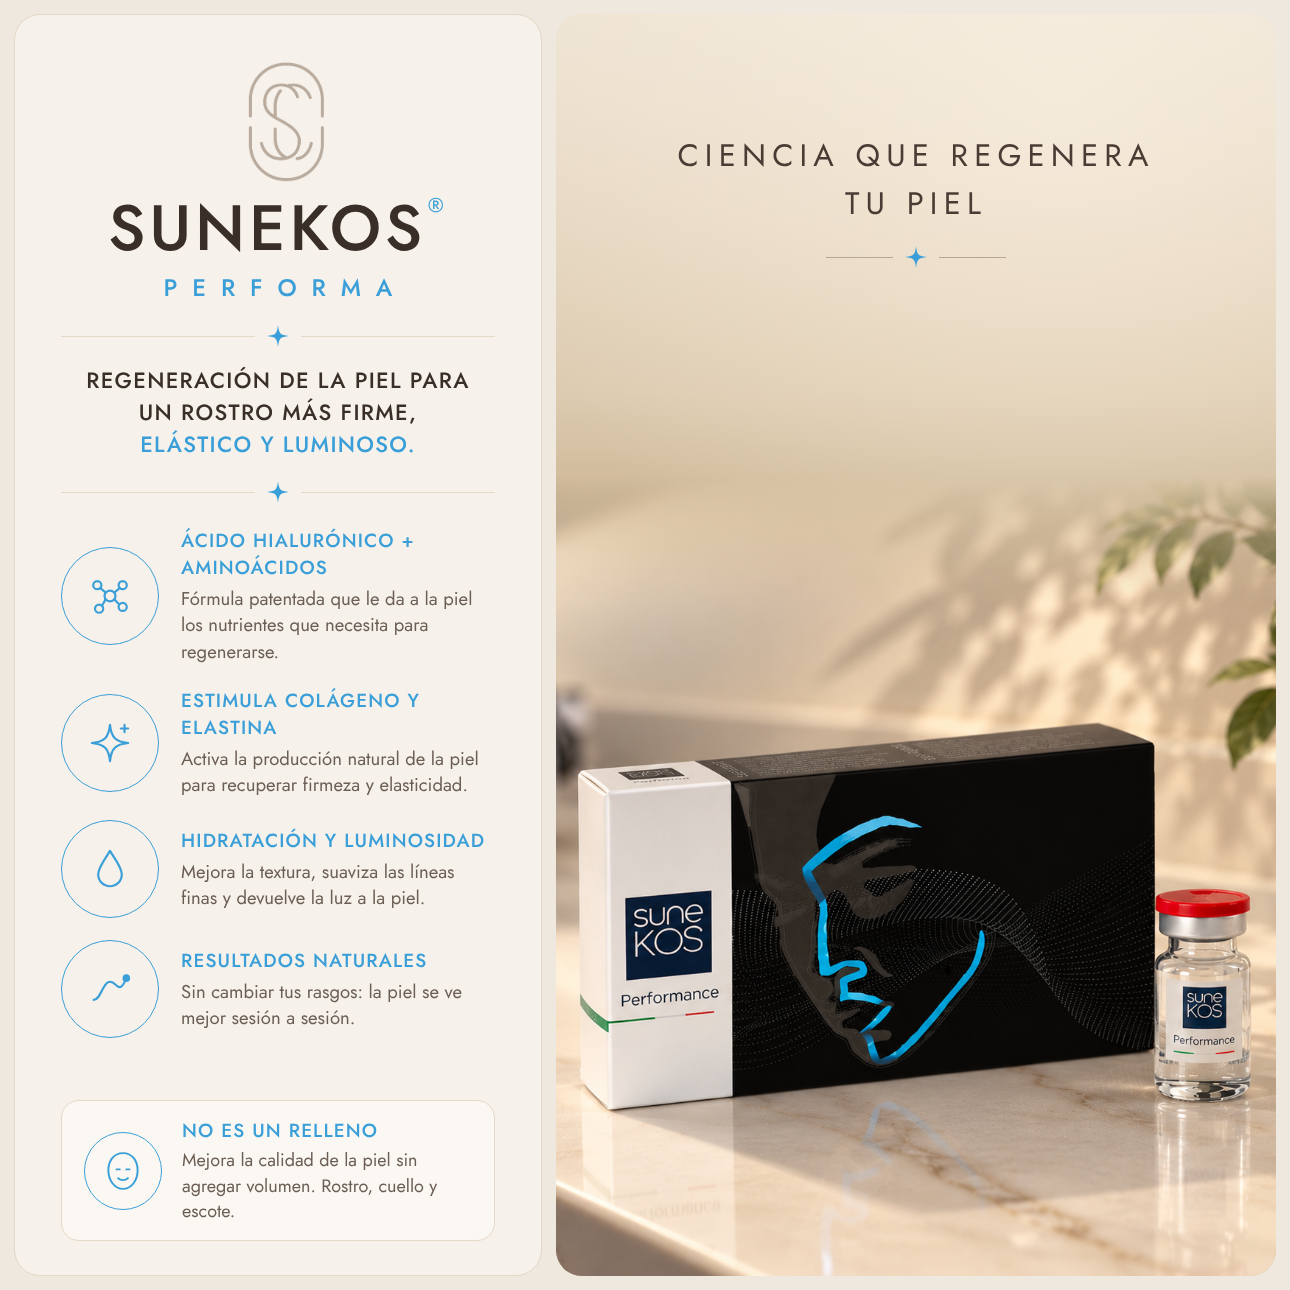
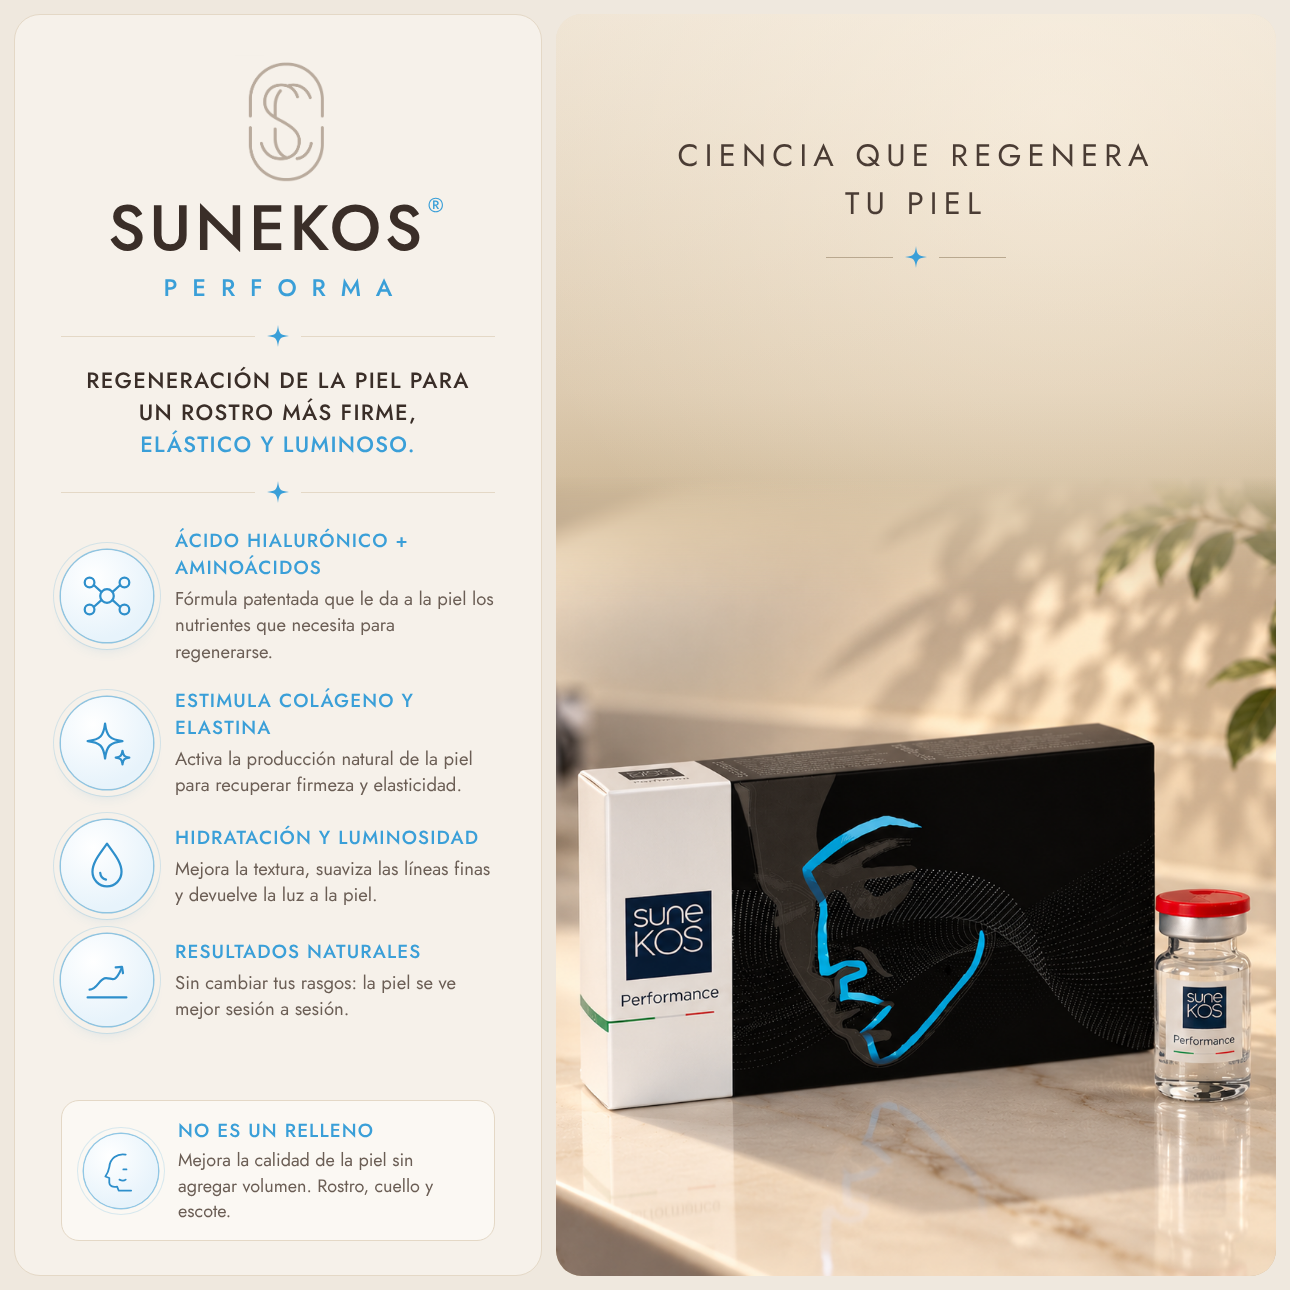
Sunekos Performa: círculos e íconos más prolijos
Claude-Session: https://claude.ai/code/session_014BnCxtLVmnrK4FAGwzrHgU

Changed region(s): [[0.031, 0.4031, 0.3721, 0.8062], [0.062, 0.8682, 0.3411, 0.9612]]

diff --git a/contenido/scripts/sunekos_post.py b/contenido/scripts/sunekos_post.py
@@ -18,12 +18,15 @@ MONO = (f'<svg width="96" height="140" viewBox="0 0 96 140" fill="none" stroke="
         '<text x="40" y="100" font-family="J" font-weight="300" font-size="62" fill="none" stroke="#8F857C" stroke-width="1.6" text-anchor="middle">S</text>'
         '<text x="58" y="88" font-family="J" font-weight="300" font-size="50" fill="none" stroke="#8F857C" stroke-width="1.6" text-anchor="middle">C</text></svg>')
 def icon(kind):
-    s = {'mol': '<circle cx="32" cy="32" r="6"/><circle cx="18" cy="20" r="4.5"/><circle cx="46" cy="20" r="4.5"/><circle cx="20" cy="46" r="4.5"/><circle cx="46" cy="44" r="4.5"/><path d="M27 28 L21 23 M37 28 L43 23 M27 36 L23 43 M37 36 L42 41"/>',
-         'spark': '<path d="M32 12 C33.5 26 38 30.5 52 32 C38 33.5 33.5 38 32 52 C30.5 38 26 33.5 12 32 C26 30.5 30.5 26 32 12Z"/><path d="M48 12 v8 M44 16 h8"/>',
-         'drop': '<path d="M32 12 C26 22 19 30 19 38 a13 13 0 0 0 26 0 C45 30 38 22 32 12Z"/>',
-         'line': '<path d="M14 44 C22 44 24 24 32 24 S42 40 50 20"/><circle cx="50" cy="20" r="3" fill="currentColor"/>',
-         'face': '<path d="M32 10 C20 10 14 20 14 31 C14 44 22 54 32 54 C42 54 50 44 50 31 C50 20 44 10 32 10Z"/><path d="M24 30 h4 M36 30 h4 M26 41 c3 3 9 3 12 0"/>'}[kind]
-    return (f'<div class="ic"><svg viewBox="0 0 64 64" width="58" height="58" fill="none" stroke="currentColor" stroke-width="2.4" '
+    s = {  # íconos de línea fina, dibujados en una grilla de 64
+     'mol': '<circle cx="32" cy="32" r="7"/><circle cx="14" cy="18" r="5"/><circle cx="50" cy="18" r="5"/><circle cx="14" cy="46" r="5"/><circle cx="50" cy="46" r="5"/>'
+            '<path d="M18.3 20.6 L26.2 27.8 M45.7 20.6 L37.8 27.8 M18.3 43.4 L26.2 36.2 M45.7 43.4 L37.8 36.2"/>',
+     'spark': '<path d="M30 12 C31.6 25 35 28.4 48 30 C35 31.6 31.6 35 30 48 C28.4 35 25 31.6 12 30 C25 28.4 28.4 25 30 12Z"/>'
+              '<path d="M48 40 C48.6 45 50 46.4 55 47 C50 47.6 48.6 49 48 54 C47.4 49 46 47.6 41 47 C46 46.4 47.4 45 48 40Z"/>',
+     'drop': '<path d="M32 9 C25 19 17 28 17 38 a15 15 0 0 0 30 0 C47 28 39 19 32 9Z"/><path d="M25 39 a8 8 0 0 0 6 7"/>',
+     'line': '<path d="M12 50 H52"/><path d="M14 42 C22 42 24 30 31 30 S40 36 47 20"/><path d="M41 19 L47.5 18.5 L48.5 25"/>',
+     'face': '<path d="M38 11 C27 9 18 16 17 27 C16 33 14 36 12 39 L17 41 L17 47 C17 51 21 53 27 52 L29 57 H45"/><path d="M35 30 h4 M30 43 c3 1.6 6 1.6 8 0"/>'}[kind]
+    return (f'<div class="ic"><svg viewBox="0 0 64 64" width="62" height="62" fill="none" stroke="currentColor" stroke-width="2.3" '
             f'stroke-linecap="round" stroke-linejoin="round">{s}</svg></div>')
 STAR = f'<svg width="22" height="22" viewBox="0 0 100 100"><path d="M50 0 C54.5 40 60 45.5 100 50 C60 54.5 54.5 60 50 100 C45.5 60 40 54.5 0 50 C40 45.5 45.5 40 50 0Z" fill="{G}"/></svg>'
 ORN = f'<div class="orn"><i></i>{STAR}<i></i></div>'
@@ -51,13 +54,13 @@ body{{margin:0;background:#EFE8DE}}
 .lead em{{font-style:normal;color:{G}}}
 .its{{display:flex;flex-direction:column;gap:22px;width:100%;margin-top:6px}}
 .it{{display:flex;gap:22px;align-items:center}}
-.ic{{width:96px;height:96px;border-radius:50%;border:1.6px solid {G};color:{G};display:grid;place-items:center;flex:none}}
+.ic{{width:92px;height:92px;border-radius:50%;color:#2E8FCB;display:grid;place-items:center;flex:none;position:relative;background:radial-gradient(circle at 35% 30%,#FFFFFF,#E7F3FB 70%);box-shadow:0 0 0 1.5px rgba(58,159,216,.55),0 0 0 7px #F6F1EA,0 0 0 8px rgba(58,159,216,.18),0 10px 18px -10px rgba(46,143,203,.45)}}
 .it b{{display:block;font-size:19px;letter-spacing:.06em;text-transform:uppercase;color:{G};font-weight:500;margin-bottom:5px}}
 .it span{{display:block;font-size:18.5px;line-height:1.42;color:{TX}}}
 .box{{margin-top:auto;width:100%;border:1.5px solid {LN};border-radius:18px;padding:16px 22px;display:flex;gap:20px;align-items:center;box-sizing:border-box;background:#FBF8F3}}
 .mono{{width:92px;margin-top:4px}}
 .brand sup{{color:{G}}}
-.box .ic{{width:76px;height:76px}} .box .ic svg{{width:52px;height:52px}}
+.box .ic{{width:74px;height:74px;box-shadow:0 0 0 1.5px rgba(58,159,216,.55),0 0 0 6px #FBF8F3,0 0 0 7px rgba(58,159,216,.18)}} .box .ic svg{{width:50px;height:50px}}
 .r{{flex:1;border-radius:26px;overflow:hidden;position:relative}}
 .ph{{position:absolute;inset:0;background:url({B64(PARED)}) 50% 30%/cover;filter:sepia(.25) saturate(.85) brightness(1.22) contrast(.82)}}
 .floor{{position:absolute;left:0;right:0;bottom:0;height:300px;background:linear-gradient(#E3D7C7,#D8CAB8);box-shadow:0 -1px 0 rgba(255,255,255,.4)}}
